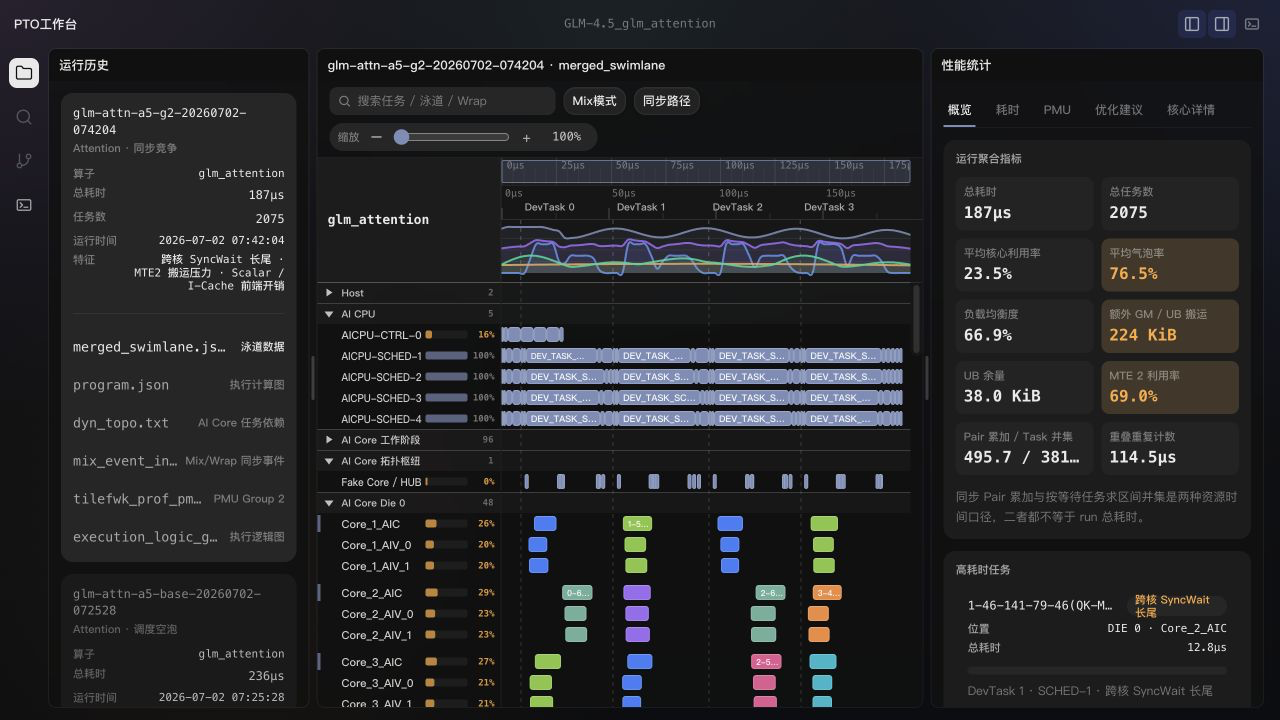
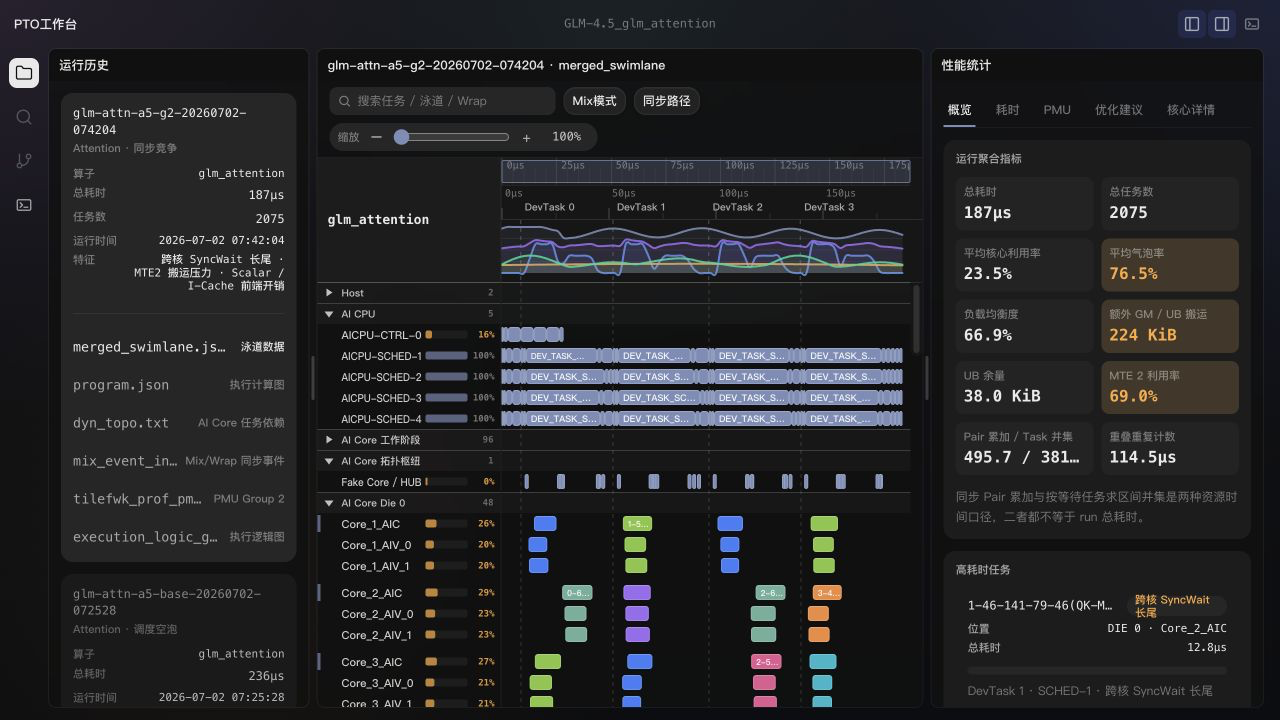
Improve PTO swimlane timeline alignment

Changed region(s): [[0.4062, 0.3056, 0.7188, 0.3972]]

diff --git a/pto-swimlane-profiler/index.html b/pto-swimlane-profiler/index.html
@@ -968,6 +968,7 @@ body {
 }
 
 .sl-timeline-right {
+  position: relative;
   min-width: 0;
 }
 
@@ -979,7 +980,7 @@ body {
 .sl-overview-wrap {
   position: relative;
   z-index: 30;
-  overflow: visible;
+  overflow: hidden;
 }
 
 .sl-overview {
@@ -997,11 +998,11 @@ body {
   height: 100%;
 }
 
-.sl-overview-marker {
+.sl-task-time-projection {
   position: absolute;
-  top: 0;
+  top: 27px;
   bottom: 0;
-  z-index: 2;
+  z-index: 40;
   pointer-events: none;
   background: color-mix(in srgb, var(--warning) 14%, transparent);
   border-left: 1px solid color-mix(in srgb, var(--warning) 84%, transparent);
@@ -1020,7 +1021,7 @@ body {
 
 .sl-overview-tooltip {
   position: absolute;
-  top: 6px;
+  top: 67px;
   z-index: 60;
   min-width: 214px;
   pointer-events: none;
@@ -1491,6 +1492,8 @@ body {
                                       <canvas class="sl-axis-crisp-canvas" id="axisCrispCanvas" aria-hidden="true"></canvas>
                                     </div>
                                     <div class="sl-overview-wrap" id="overviewWrap"><div class="sl-overview" id="overviewBand"></div></div>
+                                    <div class="sl-task-time-projection" id="selectedTaskProjection" hidden aria-hidden="true"></div>
+                                    <div class="sl-overview-tooltip pto-swimlane-task-tooltip" id="overviewTooltip" hidden aria-hidden="true"></div>
                                   </div>
                                 </div>
                               </div>
@@ -2100,6 +2103,8 @@ const axisWrap = document.getElementById('axisWrap');
 const laneWrap = document.getElementById('laneWrap');
 const overviewWrap = document.getElementById('overviewWrap');
 const overviewBand = document.getElementById('overviewBand');
+const overviewTooltip = document.getElementById('overviewTooltip');
+const selectedTaskProjection = document.getElementById('selectedTaskProjection');
 const swimlaneScrollShell = document.querySelector('.sl-swimlane-scroll-shell');
 const timestampGuide = document.getElementById('timestampGuide');
 const globalRulerScale = document.getElementById('globalRulerScale');
@@ -2145,7 +2150,7 @@ let graphResizeObserver = null;
 let zoomRenderFrame = 0;
 let crispRenderFrame = 0;
 let renderedWrapBandSpecs = [];
-let pendingZoomAnchor = 0.5;
+let pendingZoomAnchorTime = 0;
 let panelActions = null;
 let responsivePaneMode = null;
 let autoCollapsedExplorer = false;
@@ -2173,7 +2178,31 @@ function visibleTrackW() {
 function bodyW() {
   return Math.ceil(visibleTrackW() * (state.zoomPct / 100));
 }
-function pxPerUs() { return Math.max(0.1, (bodyW() - 8) / MODEL.timelineEnd); }
+function timeTrackW() {
+  return Math.max(1, bodyW() - 8);
+}
+function pxPerUs() {
+  return Math.max(0.1, timeTrackW() / MODEL.timelineEnd);
+}
+function clampTimelineTime(time) {
+  return Math.max(0, Math.min(MODEL.timelineEnd, Number(time) || 0));
+}
+function timeToContentX(time) {
+  return clampTimelineTime(time) * pxPerUs();
+}
+function contentXToTime(x) {
+  return clampTimelineTime((Number(x) || 0) / pxPerUs());
+}
+function localTimeAtClientX(clientX) {
+  const rect = bodyWrap.getBoundingClientRect();
+  const viewportX = Math.max(0, Math.min(rect.width, clientX - rect.left));
+  return contentXToTime(bodyWrap.scrollLeft + viewportX);
+}
+function globalTimeAtClientX(clientX) {
+  const rect = globalRulerScale.getBoundingClientRect();
+  const f = Math.max(0, Math.min(1, (clientX - rect.left) / Math.max(1, rect.width)));
+  return f * MODEL.timelineEnd;
+}
 function taskBarGeometry(task, start, end, scale) {
   let x = start * scale;
   let width = Math.max(0, end - start) * scale;
@@ -3241,6 +3270,7 @@ function fitLayer(layer) {
     axisWrap.scrollLeft = bodyWrap.scrollLeft;
     overviewWrap.scrollLeft = bodyWrap.scrollLeft;
     syncGlobalRulerBrush();
+    renderSelectedTaskProjection();
   });
 }
 
@@ -3505,37 +3535,58 @@ function buildOverviewMetrics() {
 
 function renderOverviewBand() {
   const w = bodyW();
+  const trackW = timeTrackW();
   const h = 62;
   const top = 7;
   const bottom = 9;
   overviewMetricSeries = buildOverviewMetrics();
   const grid = [0.25, 0.5, 0.75].map((p) => {
     const y = top + (h - top - bottom) * p;
-    return `<path d="M0 ${y.toFixed(2)} H${w}" stroke="rgba(255,255,255,0.055)" stroke-width="1"></path>`;
+    return `<path d="M0 ${y.toFixed(2)} H${trackW}" stroke="rgba(255,255,255,0.055)" stroke-width="1"></path>`;
   }).join('');
   const layerGuides = MODEL.layerMarks.map((mark) => {
-    const x = mark.t * pxPerUs();
+    const x = timeToContentX(mark.t);
     return `<path d="M${x.toFixed(2)} 0 V${h}" stroke="rgba(255,255,255,0.24)" stroke-width="1" stroke-dasharray="4 4"></path>`;
   }).join('');
   const paths = overviewMetricSeries.map((metric) => {
     const points = metric.values.map((value, i) => {
       const f = i / Math.max(1, metric.values.length - 1);
       const y = top + (1 - value / metric.max) * (h - top - bottom);
-      return { x: f * w, y };
+      return { x: f * trackW, y };
     });
     const line = smoothPath(points);
-    const area = `${line} L${w.toFixed(2)},${(h - bottom).toFixed(2)} L0,${(h - bottom).toFixed(2)} Z`;
+    const area = `${line} L${trackW.toFixed(2)},${(h - bottom).toFixed(2)} L0,${(h - bottom).toFixed(2)} Z`;
     return `<path d="${area}" fill="${metric.color}" opacity="0.10"></path><path d="${line}" fill="none" stroke="${metric.color}" stroke-width="2" stroke-linecap="round" stroke-linejoin="round" opacity="0.88"></path>`;
   }).join('');
-  let marker = '';
-  if (state.selTask) {
-    const selected = selectedTaskView();
-    const x = selected.start * pxPerUs();
-    const mw = Math.max(2, (selected.end - selected.start) * pxPerUs());
-    marker = `<div class="sl-overview-marker" style="left:${x}px;width:${mw}px"></div>`;
-  }
   overviewBand.style.width = w + 'px';
-  overviewBand.innerHTML = `<svg viewBox="0 0 ${w} ${h}" preserveAspectRatio="none" aria-hidden="true">${grid}${layerGuides}${paths}</svg>${marker}<div class="sl-overview-tooltip pto-swimlane-task-tooltip" id="overviewTooltip" hidden aria-hidden="true"></div>`;
+  overviewBand.innerHTML = `<svg viewBox="0 0 ${w} ${h}" preserveAspectRatio="none" aria-hidden="true">${grid}${layerGuides}${paths}</svg>`;
+  renderSelectedTaskProjection();
+}
+
+function renderSelectedTaskProjection() {
+  if (!selectedTaskProjection) return;
+  const selected = selectedTaskView();
+  if (!selected) {
+    selectedTaskProjection.hidden = true;
+    selectedTaskProjection.setAttribute('aria-hidden', 'true');
+    return;
+  }
+  const viewportWidth = bodyWrap.clientWidth || visibleTrackW();
+  const startX = timeToContentX(selected.start) - bodyWrap.scrollLeft;
+  const endX = timeToContentX(selected.end) - bodyWrap.scrollLeft;
+  const visibleLeft = Math.max(0, startX);
+  const visibleRight = Math.min(viewportWidth, Math.max(startX + 2, endX));
+  if (visibleRight <= visibleLeft || startX > viewportWidth || endX < 0) {
+    selectedTaskProjection.hidden = true;
+    selectedTaskProjection.setAttribute('aria-hidden', 'true');
+    return;
+  }
+  selectedTaskProjection.style.left = visibleLeft + 'px';
+  selectedTaskProjection.style.width = Math.max(2, visibleRight - visibleLeft) + 'px';
+  selectedTaskProjection.dataset.startTime = selected.start.toFixed(3);
+  selectedTaskProjection.dataset.endTime = selected.end.toFixed(3);
+  selectedTaskProjection.hidden = false;
+  selectedTaskProjection.setAttribute('aria-hidden', 'false');
 }
 
 function renderGlobalRuler() {
@@ -3554,7 +3605,7 @@ function renderGlobalRuler() {
 
 function syncGlobalRulerBrush() {
   if (!globalRulerBrush) return;
-  const w = bodyW();
+  const w = timeTrackW();
   const visible = Math.max(1, bodyWrap.clientWidth || visibleTrackW());
   const leftF = Math.max(0, Math.min(1, bodyWrap.scrollLeft / w));
   const widthF = Math.max(0.01, Math.min(1 - leftF, visible / w));
@@ -3571,19 +3622,32 @@ function formatMetricValue(metric, value) {
   return value.toFixed(1) + metric.unit;
 }
 
-function showTimestampGuideAt(clientX) {
+function showTimestampGuideAtTime(time) {
   if (!timestampGuide || !swimlaneScrollShell) return;
+  const clampedTime = clampTimelineTime(time);
   const shellRect = swimlaneScrollShell.getBoundingClientRect();
-  const left = Math.max(LABEL_W, Math.min(shellRect.width - 1, clientX - shellRect.left));
+  const bodyRect = bodyWrap.getBoundingClientRect();
+  const viewportX = timeToContentX(clampedTime) - bodyWrap.scrollLeft;
+  if (viewportX < 0 || viewportX > bodyRect.width) {
+    hideTimestampGuide();
+    return;
+  }
+  const left = bodyRect.left - shellRect.left + viewportX;
   timestampGuide.style.left = left + 'px';
   timestampGuide.hidden = false;
   timestampGuide.setAttribute('aria-hidden', 'false');
   if (state.secondaryViewMode === 'comparison' && compareTimestampGuide && compareGrid) {
     const compareRect = compareGrid.getBoundingClientRect();
-    const compareLeft = Math.max(LABEL_W, Math.min(compareRect.width - 1, clientX - compareRect.left));
-    compareTimestampGuide.style.left = compareLeft + 'px';
-    compareTimestampGuide.hidden = false;
-    compareTimestampGuide.setAttribute('aria-hidden', 'false');
+    const compareViewportX = timeToContentX(clampedTime) - compareBodyWrap.scrollLeft;
+    const compareTrackWidth = Math.max(0, compareRect.width - LABEL_W);
+    if (compareViewportX >= 0 && compareViewportX <= compareTrackWidth) {
+      compareTimestampGuide.style.left = LABEL_W + compareViewportX + 'px';
+      compareTimestampGuide.hidden = false;
+      compareTimestampGuide.setAttribute('aria-hidden', 'false');
+    } else {
+      compareTimestampGuide.hidden = true;
+      compareTimestampGuide.setAttribute('aria-hidden', 'true');
+    }
   }
 }
 
@@ -3598,37 +3662,42 @@ function hideTimestampGuide() {
   }
 }
 
-function showOverviewTooltip(e) {
+function showPerformanceTooltipAtTime(time, clientX) {
   if (!overviewMetricSeries.length) return;
-  const rect = overviewBand.getBoundingClientRect();
+  const rect = overviewWrap.getBoundingClientRect();
   if (!rect.width) return;
-  const x = Math.max(0, Math.min(rect.width, e.clientX - rect.left));
-  const f = x / rect.width;
-  const idx = Math.max(0, Math.min(overviewMetricSeries[0].values.length - 1, Math.round(f * (overviewMetricSeries[0].values.length - 1))));
-  const t = f * MODEL.timelineEnd;
-  const tip = document.getElementById('overviewTooltip');
-  if (!tip) return;
-  showTimestampGuideAt(e.clientX);
+  const t = clampTimelineTime(time);
+  const f = t / Math.max(Number.EPSILON, MODEL.timelineEnd);
+  const idx = Math.max(0, Math.min(
+    overviewMetricSeries[0].values.length - 1,
+    Math.round(f * (overviewMetricSeries[0].values.length - 1)),
+  ));
+  if (!overviewTooltip) return;
+  showTimestampGuideAtTime(t);
   const rows = overviewMetricSeries.map((metric) => (
     `<div class="pto-swimlane-task-tooltip__row"><span class="pto-swimlane-task-tooltip__key"><span class="sl-overview-tip-swatch" style="background:${metric.color}"></span>${metric.label}</span><span class="pto-swimlane-task-tooltip__value">${formatMetricValue(metric, metric.values[idx])}</span></div>`
   )).join('');
-  tip.innerHTML = `<div class="pto-swimlane-task-tooltip__title">时间戳 ${t.toFixed(1)}μs</div>${rows}`;
-  tip.hidden = false;
-  tip.classList.add('is-visible');
-  tip.setAttribute('aria-hidden', 'false');
-  const tw = tip.offsetWidth || 214;
-  const left = x + 12 + tw > rect.width ? x - tw - 12 : x + 12;
-  tip.style.left = Math.max(2, Math.min(rect.width - tw - 2, left)) + 'px';
-  tip.style.top = '6px';
+  overviewTooltip.innerHTML = `<div class="pto-swimlane-task-tooltip__title">时间戳 ${t.toFixed(1)}μs</div>${rows}`;
+  overviewTooltip.hidden = false;
+  overviewTooltip.classList.add('is-visible');
+  overviewTooltip.setAttribute('aria-hidden', 'false');
+  overviewTooltip.dataset.timestamp = t.toFixed(3);
+  const tw = overviewTooltip.offsetWidth || 214;
+  const anchorX = Math.max(0, Math.min(rect.width, clientX - rect.left));
+  const left = anchorX + 12 + tw > rect.width ? anchorX - tw - 12 : anchorX + 12;
+  overviewTooltip.style.left = Math.max(2, Math.min(rect.width - tw - 2, left)) + 'px';
+}
+
+function showOverviewTooltip(event) {
+  showPerformanceTooltipAtTime(localTimeAtClientX(event.clientX), event.clientX);
 }
 
 function hideOverviewTooltip() {
-  const tip = document.getElementById('overviewTooltip');
   hideTimestampGuide();
-  if (tip) {
-    tip.classList.remove('is-visible');
-    tip.setAttribute('aria-hidden', 'true');
-    tip.hidden = true;
+  if (overviewTooltip) {
+    overviewTooltip.classList.remove('is-visible');
+    overviewTooltip.setAttribute('aria-hidden', 'true');
+    overviewTooltip.hidden = true;
   }
 }
 
@@ -3855,7 +3924,8 @@ bodyWrap.addEventListener('scroll', () => {
     syncingComparisonScroll = false;
   }
   syncGlobalRulerBrush();
-  hideTimestampGuide();
+  renderSelectedTaskProjection();
+  hideOverviewTooltip();
   scheduleCrispTaskLayer();
 });
 function forwardLaneWheel(event, targetWrap) {
@@ -3880,8 +3950,9 @@ compareBodyWrap?.addEventListener('scroll', () => {
     overviewWrap.scrollLeft = compareBodyWrap.scrollLeft;
     syncingComparisonScroll = false;
     syncGlobalRulerBrush();
+    renderSelectedTaskProjection();
   }
-  hideTimestampGuide();
+  hideOverviewTooltip();
   scheduleCrispTaskLayer();
 });
 overviewBand.addEventListener('mousemove', showOverviewTooltip);
@@ -3895,13 +3966,13 @@ axisCanvas.addEventListener('mousemove', (e) => {
     drawAxis();
   }
   axisCanvas.style.cursor = mark ? 'pointer' : 'crosshair';
-  showTimestampGuideAt(e.clientX);
+  showPerformanceTooltipAtTime(localTimeAtClientX(e.clientX), e.clientX);
 });
 axisCanvas.addEventListener('mouseleave', () => {
   axisCanvas.style.cursor = 'default';
   state.hoverLayer = null;
   drawAxis();
-  hideTimestampGuide();
+  hideOverviewTooltip();
 });
 axisCanvas.addEventListener('click', (e) => {
   const rect = axisCanvas.getBoundingClientRect();
@@ -4094,17 +4165,19 @@ taskSearch.addEventListener('input', (e) => {
   drawBody();
 });
 if (globalRulerScale) {
+  globalRulerScale.addEventListener('pointermove', (e) => {
+    showPerformanceTooltipAtTime(globalTimeAtClientX(e.clientX), e.clientX);
+  });
+  globalRulerScale.addEventListener('pointerleave', hideOverviewTooltip);
   globalRulerScale.addEventListener('pointerdown', (e) => {
     const rect = (globalRulerTicks || globalRulerScale).getBoundingClientRect();
     const f = Math.max(0, Math.min(1, (e.clientX - rect.left) / rect.width));
-    bodyWrap.scrollLeft = Math.max(0, bodyW() * f - bodyWrap.clientWidth / 2);
+    bodyWrap.scrollLeft = Math.max(0, timeTrackW() * f - bodyWrap.clientWidth / 2);
     syncGlobalRulerBrush();
   });
 }
 function setZoom(pct) {
-  const renderedWidth = parseFloat(bodyCanvas.style.width) || bodyW();
-  pendingZoomAnchor = Math.max(0, Math.min(1,
-    (bodyWrap.scrollLeft + bodyWrap.clientWidth / 2) / Math.max(1, renderedWidth)));
+  pendingZoomAnchorTime = contentXToTime(bodyWrap.scrollLeft + bodyWrap.clientWidth / 2);
   state.zoomPct = Math.max(ZOOM_MIN, Math.min(ZOOM_MAX, Math.round(pct / 5) * 5));
   document.getElementById('zoomReadout').textContent = state.zoomPct + '%';
   zoomSlider.value = String(state.zoomPct);
@@ -4114,13 +4187,14 @@ function setZoom(pct) {
     zoomRenderFrame = 0;
     layout({ reuseLaneCanvas: true });
     bodyWrap.scrollLeft = Math.max(0,
-      bodyW() * pendingZoomAnchor - bodyWrap.clientWidth / 2);
+      timeToContentX(pendingZoomAnchorTime) - bodyWrap.clientWidth / 2);
     axisWrap.scrollLeft = bodyWrap.scrollLeft;
     overviewWrap.scrollLeft = bodyWrap.scrollLeft;
     if (state.secondaryViewMode === 'comparison' && compareBodyWrap) {
       compareBodyWrap.scrollLeft = bodyWrap.scrollLeft;
     }
     syncGlobalRulerBrush();
+    renderSelectedTaskProjection();
     canvasPane?.removeAttribute('aria-busy');
   });
 }